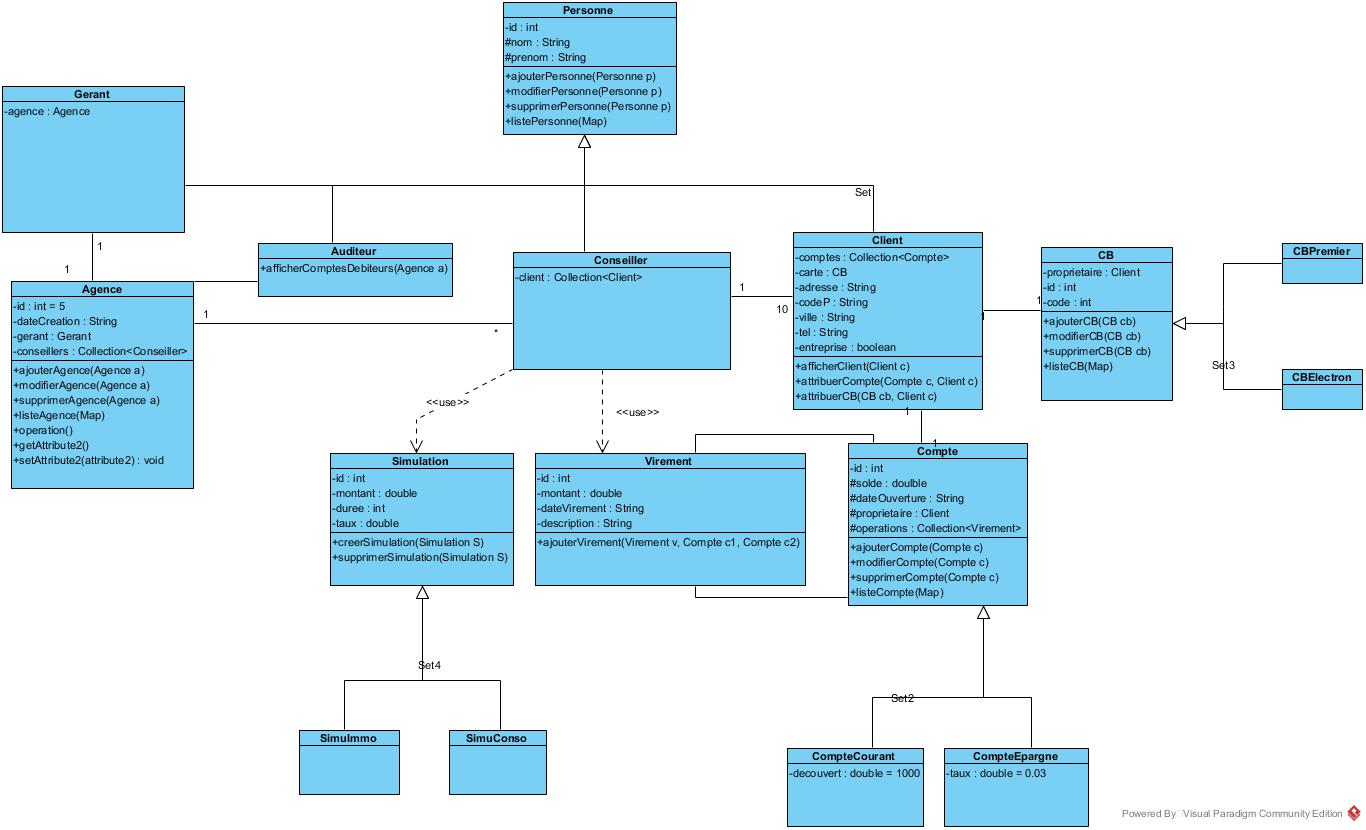
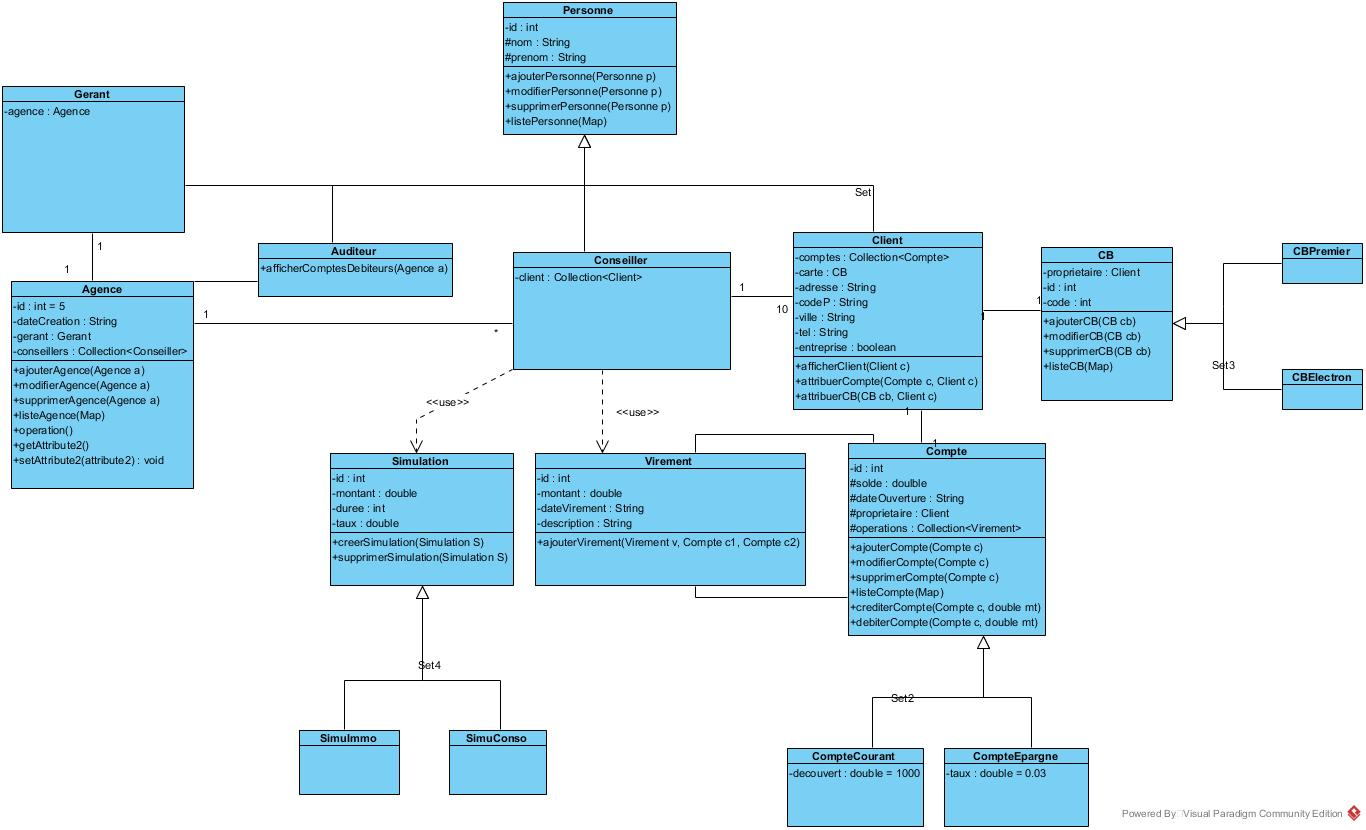
Compte verser/debiter methode et WIP sur Implementation des méthodes

Changed region(s): [[0.6149, 0.512, 0.7687, 0.7831], [0.6764, 0.5422, 0.7072, 0.5723]]

diff --git a/src/service/Iservice.java b/src/service/Iservice.java
@@ -41,6 +41,8 @@ public interface Iservice {
 	public void modifierCompte(Compte c);
 	public void supprimerCompte(Compte c);
 	public void listeCompte(Map<Integer, Compte> comptes);
+	public void crediterCompte(Compte c, double mt);
+	public void debiterCompte(Compte c, double mt);
 	
 	//PERSONNE
 	public Map<Integer, Personne> ajouterPersonne(Personne p);

diff --git a/src/lanceur/LanceurTest.java b/src/lanceur/LanceurTest.java
@@ -1,0 +1,8 @@
+package lanceur;
+
+public class LanceurTest {
+	public static void main(String[] args) {
+		
+		
+	}
+}
